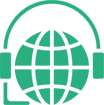
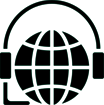
blacken content

diff --git a/css/style2.css b/css/style2.css
@@ -290,11 +290,11 @@ button.btn.btn-primary, button.btn.btn-primary:hover, button.btn.btn-primary:foc
 .lorem_text{
 	width: 100%;
 	float: left;
-	text-align: center;;
+	text-align: center;
 }
 
 .color{
-	color: #2aaf80;
+	color:#d01c2d
 }
 
 .choose_section_2{
@@ -305,7 +305,7 @@ button.btn.btn-primary, button.btn.btn-primary:hover, button.btn.btn-primary:foc
 .power_full{
 	width: 100%;
 	float: left;
-	background-color: #2aaf80;
+	background-color:rgba(0,0,0,.9);
 	border-radius: 30px;
 	padding: 20px;
 	box-shadow: 0px 0px 8px 0px;
@@ -388,7 +388,7 @@ button.btn.btn-primary, button.btn.btn-primary:hover, button.btn.btn-primary:foc
 .about_main{ 
 	width: 100%;
 	float: left;
-	background-color: #2ba879;
+	background-color: #000000;
     height: auto; 
 	margin-top: 70px; 
 	margin-bottom: 20px;
